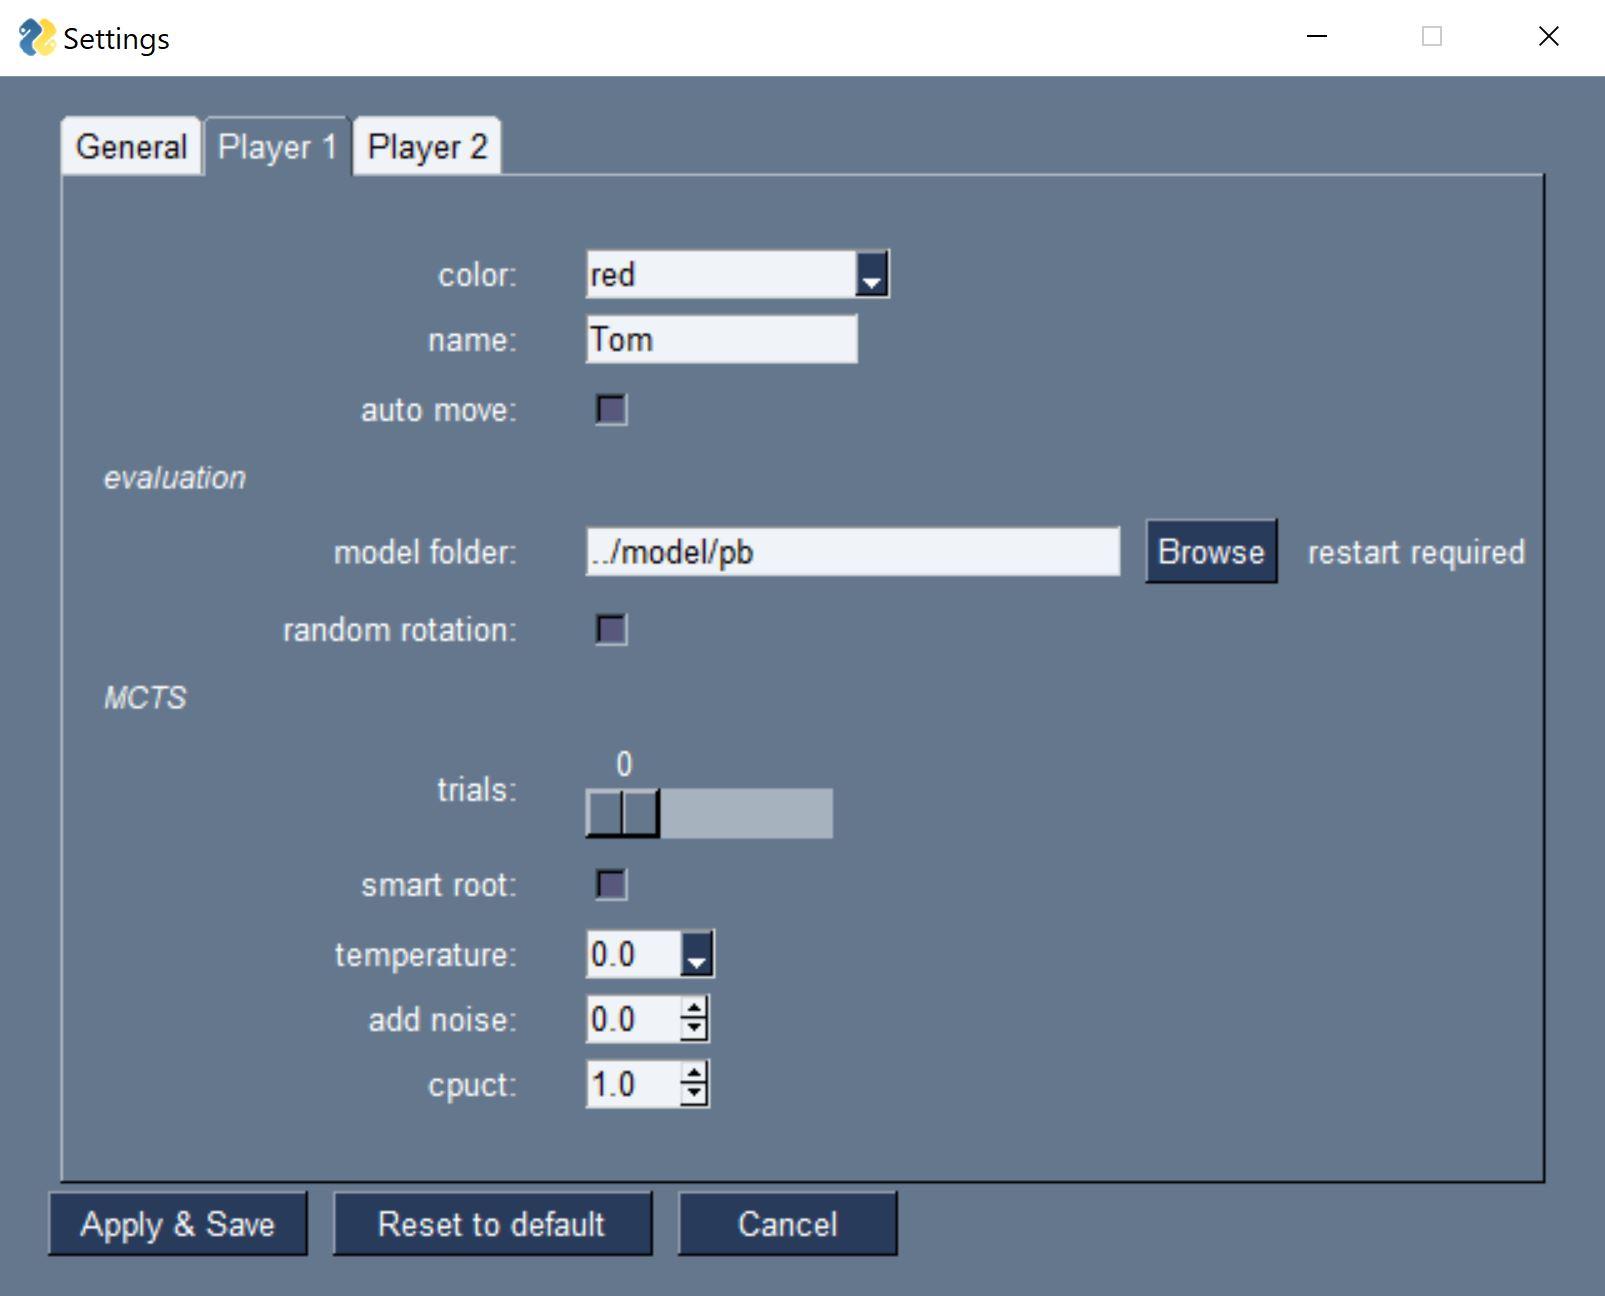
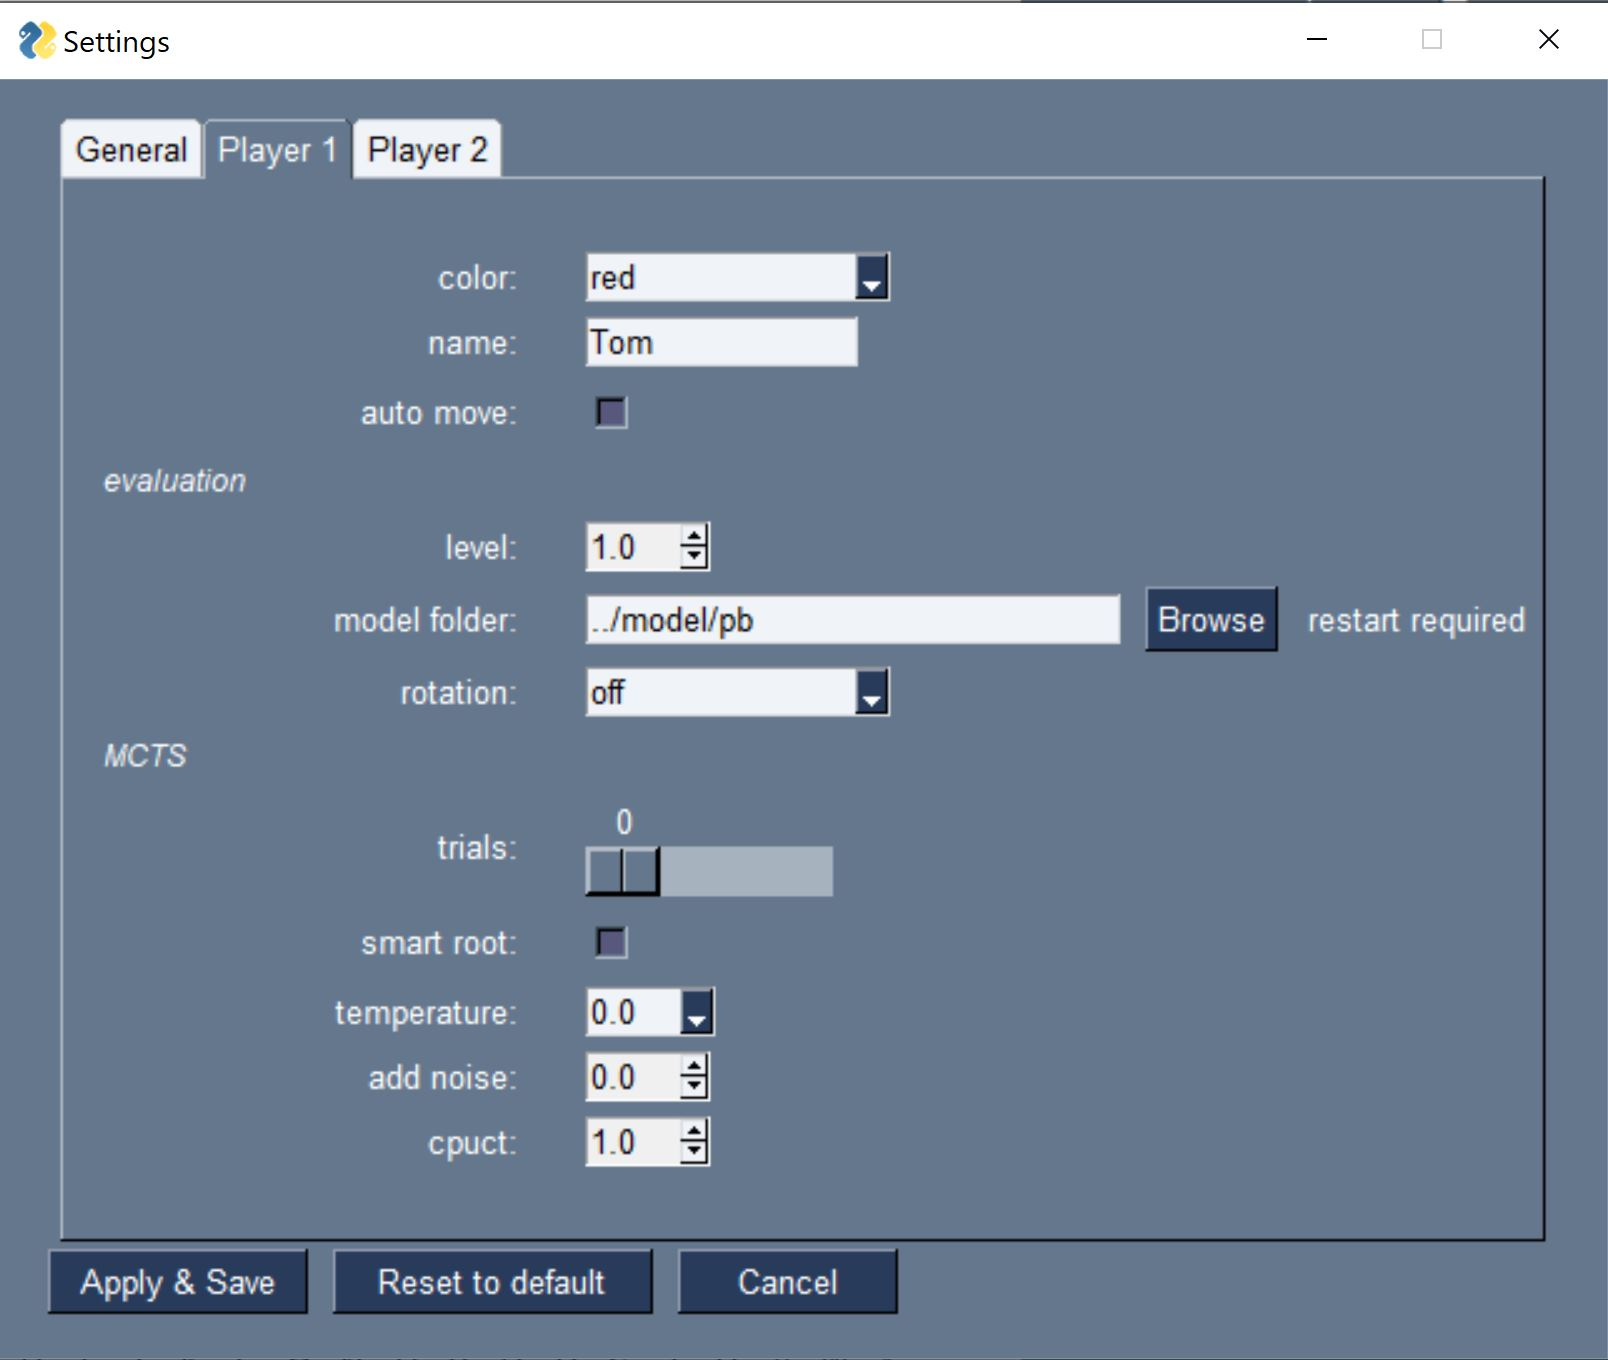
parameter 'level' to scew prob. dist. and weaken bots

diff --git a/src/tbui.py b/src/tbui.py
@@ -204,14 +204,14 @@ class TwixtbotUI:
         self.get_control(ct.K_MOVES).Update(text)
 
     def calc_eval(self):
-        score, moves, prob = self.bots[self.game.turn].nm.eval_game(self.game)
+        score, moves, P, Pscew = self.bots[self.game.turn].nm.eval_game(self.game)
         # get score from white's perspective
         sc = round((2 * self.game.turn - 1) * score, 3)
-        self.next_move = {"score": sc, "moves": moves, "P": prob}
+        self.next_move = {"score": sc, "moves": moves, "P": P, "Pscew": Pscew}
         # Add sc to dict of historical scores
         self.moves_score[len(self.game.history)] = sc
 
-        return sc, moves, prob
+        return sc, moves, P, Pscew
 
     def clear_evals(self):
         self.get_control(ct.K_EVAL_NUM).Update('')
@@ -227,13 +227,13 @@ class TwixtbotUI:
             return
 
         if not self.game_over(False):
-            sc, moves, prob = self.calc_eval()
+            sc, moves, P, _ = self.calc_eval()
 
             self.get_control(ct.K_EVAL_NUM).Update(sc)
             self.get_control(ct.K_EVAL_BAR).Update(1000 * sc + 1000)
 
             # update chart (use top 3 values only)
-            values = {"moves": moves[:3], "Y":  [int(round(p * 1000)) for p in prob[:3]]}
+            values = {"moves": moves[:3], "Y":  [int(round(p * 1000)) for p in P[:3]]}
             self.eval_moves_plot.update(values, 1000)
 
         # clean visits
@@ -346,6 +346,8 @@ class TwixtbotUI:
                     self.stgs.get(ct.K_TRIALS[p]))
                 self.bots[t].temperature = float(
                     self.stgs.get(ct.K_TEMPERATURE[p]))
+                self.bots[t].level = float(
+                    self.stgs.get(ct.K_LEVEL[p]))
                 self.bots[t].rotation = self.stgs.get(
                     ct.K_ROTATION[p])
                 self.bots[t].add_noise = float(
@@ -363,6 +365,7 @@ class TwixtbotUI:
             "allow_swap": self.stgs.get(ct.K_ALLOW_SWAP[1]),
             "model": self.stgs.get(ct.K_MODEL_FOLDER[player]),
             "trials": self.stgs.get(ct.K_TRIALS[player]),
+            "level": self.stgs.get(ct.K_LEVEL[player]),
             "smart_root": self.stgs.get(ct.K_SMART_ROOT[player]),
             "temperature": self.stgs.get(ct.K_TEMPERATURE[player]),
             "rotation": self.stgs.get(ct.K_ROTATION[player]),
@@ -375,21 +378,18 @@ class TwixtbotUI:
         import backend.nnmplayer as nnmplayer
         self.bots[2 - player] = nnmplayer.Player(**args)
 
-    def _apply_level(self, response):
+    """
+            if idx > 0:
+                print("apply_level: ", response["moves"])
+                print("             ", response["P"])
+                print("q, p0New, d  ", q, p0new, d)
+                print("             ", prob)
+                print("             ", idx, moves[idx])
+    """
 
-        moves = response["moves"]
-        level = self.get_current(ct.K_LEVEL)
-        if len(moves) == 1 or level == ct.LEV_GREEDY:
-            # return best move
-            idx = 0
-        else:
-            # stochastic
-            idx = random.choices(np.arange(0, len(moves)), response["P"])[0]
-
-        m = moves[idx]
-        print("apply_level: ", response["moves"], response["P"], idx, m, response["P"][idx])
-
-        return m
+    def _stochastic_choice(self, response):
+        idx = random.choices(np.arange(0, len(response["Pscew"])), response["Pscew"])[0]
+        return response["moves"][idx]
 
     def call_bot(self):
         # mcts, or first/second move (we are in a thread)
@@ -400,7 +400,7 @@ class TwixtbotUI:
             # bot has not been cancelled (but is finished or accepted)
             # so execute move.
             # execute move must be inside thread!
-            move = self._apply_level(response)
+            move = self._stochastic_choice(response)
             self.execute_move(move)
         else:
             # reset history_at_root resets tree and visit counts
@@ -520,6 +520,7 @@ class TwixtbotUI:
                 len(values["moves"]) > 1):
             # limit to top 3 moves
             values["moves"] = values["moves"][:3]
+            values["Y"] = values["Y"][:3]
             self.visit_plot.update(values, max(1, values["max"]))
 
     def handle_accept_and_cancel(self, event):
@@ -597,21 +598,22 @@ class TwixtbotUI:
                 if len(self.game.history) >= 2:
                     # we already have the next moves
                     # from eval update => execute it
-                    move = self._apply_level(self.next_move)
+                    move = self._stochastic_choice(self.next_move)
                     self.execute_move(move)
                 else:
                     # first or second move (special policy)
                     # => sync call + execute
                     response = self.bots[self.game.turn].pick_move(
                         self.game, self.window, self.bot_event)
-                    move = self._apply_level(response)
+                    move = self._stochastic_choice(response)
                     self.execute_move(move)
                 # window update
                 self.update_after_move(False)
                 # send pseudo-event to keep loop going
                 # necessary in case of trials==0 and
                 # auto_move=True for both bots
-                self.window.write_event_value('PSEUDO', None)
+                if not self.game_over():
+                    self.window.write_event_value('PSEUDO', None)
             else:
                 # mcts => async bot call in thread
                 self.launch_call_bot()

diff --git a/src/backend/nnmcts.py b/src/backend/nnmcts.py
@@ -29,6 +29,7 @@ class NeuralMCTS:
         """ sap = score and policy function, takes a game as input """
         self.cpuct = kwargs.pop("cpuct", 1.0)
         self.add_noise = kwargs.pop("add_noise", 0.25)
+        self.level = kwargs.pop("level", None)
         self.smart_root = kwargs.pop("smart_root", 0)
         self.smart_init = kwargs.pop("smart_init", 0)
         self.board = kwargs.pop("board", None)
@@ -151,18 +152,12 @@ class NeuralMCTS:
 
         game.play(move)
 
-        # cif self.visualize_mcts:
-        #    self.board.create_move_objects(len(game.history)-1, True)
-
         if subnode:
             subscore = -self.visit_node(game, subnode)
         else:
             subnode = self.expand_leaf(game)
             node.subnodes[index] = subnode
             subscore = -subnode.score
-
-        # if self.visualize_mcts:
-        #    self.board.undo_last_move_objects()
 
         game.undo()
 
@@ -215,7 +210,21 @@ class NeuralMCTS:
         indices = numpy.argsort(self.root.P[self.root.LMnz])
         pts = [str(naf.policy_index_point(game, self.root.LMnz[0][index]))
                for index in indices[-3:]]
+
         return ":" + ",".join(pts)
+
+    def _scew(self, P):
+        prob = P
+        q = self.level
+        # stochastic
+        avg = 1.0 / len(prob)
+        p0 = prob[0]
+        # if q == 0.0 => set new q0 to avg
+        # if q == 0.5 => set new q0 to q0 (no change)
+        # if q == 1.0 => set new q0 to 1 (greedy)
+        prob = [(-4*p+2*avg)*q*q + (4*p-3*avg)*q + avg for p in prob[1:]]
+        prob[0] = (-4*p0+2*avg+2)*q*q + (4*p0-3*avg-1)*q + avg
+        return prob
 
     def eval_game(self, game, maxbest=twixt.MAXBEST):
 
@@ -225,8 +234,11 @@ class NeuralMCTS:
         top_ixs = numpy.argsort(self.root.P)[-maxbest:]
         moves = [naf.policy_index_point(game, ix) for ix in top_ixs][::-1]
         P = [self.root.P[ix] for ix in top_ixs][::-1]
+        # scew P
+        Pscew = self._scew(P)
+
         self.logger.debug("moves: %s, idx: %s", moves, top_ixs)
-        return self.root.score, moves, P
+        return self.root.score, moves, P, Pscew
 
     def proven_result(self, game):
         if self.root.winning_move:
@@ -241,7 +253,7 @@ class NeuralMCTS:
 
     def create_response(self, game, status,
                         num_trials=0, current_trials=0,
-                        proven=False, moves=None, P=None):
+                        proven=False, moves=None, P=None, Pscew=None):
 
         resp = {
             "status": status,
@@ -255,13 +267,18 @@ class NeuralMCTS:
         else:
             resp["P"] = [1.0]
 
+        if Pscew is not None:
+            resp["Pscew"] = Pscew.tolist() if type(Pscew) != list else P
+        else:
+            resp["Pscew"] = [1.0]
+
         if not moves:
             indices = numpy.argsort(self.root.N)[::-1][:twixt.MAXBEST]
             resp["moves"] = [naf.policy_index_point(
                 game.turn, i) for i in indices]
             resp["Y"] = [int(n) for n in self.root.N[indices].tolist()]
-            resp["P"] = [int(round(p * 1000))
-                         for p in self.root.P[indices].tolist()]
+            resp["P"] = [p for p in self.root.P[indices].tolist()]
+            resp["Pscew"] = self._scew(resp["P"])
             # resp["Q"] = self.root.Q[indices].tolist()
         else:
             resp["moves"] = moves

diff --git a/src/layout.py b/src/layout.py
@@ -279,7 +279,7 @@ def st_row_resign_threshold():
     return [st_label(ct.K_RESIGN_THRESHOLD[0]),
             sg.Spin(values=[float((x + 70.0) / 100.0) for x in range(31)],
                     initial_value=ct.K_RESIGN_THRESHOLD[3],
-                    key=ct.K_RESIGN_THRESHOLD[1], size=(5, 0))]
+                    key=ct.K_RESIGN_THRESHOLD[1], size=(5, 0), readonly=True)]
 
 
 def st_row_color(player):
@@ -327,14 +327,14 @@ def st_row_add_noise(player):
     return [st_label(ct.K_ADD_NOISE[0]),
             sg.Spin(values=[float(x / 100.0) for x in range(101)],
                     initial_value=ct.K_ADD_NOISE[player + 2],
-                    key=ct.K_ADD_NOISE[player], size=(5, 0))]
+                    key=ct.K_ADD_NOISE[player], size=(5, 0), readonly=True)]
 
 
 def st_row_cpuct(player):
     return [st_label(ct.K_CPUCT[0]),
             sg.Spin(values=[float(x / 100.0) for x in range(101)],
                     initial_value=ct.K_CPUCT[player + 2],
-                    key=ct.K_CPUCT[player], size=(5, 0))]
+                    key=ct.K_CPUCT[player], size=(5, 0), readonly=True)]
 
 
 def st_row_rotation(player):
@@ -345,8 +345,9 @@ def st_row_rotation(player):
 
 def st_row_level(player):
     return [st_label(ct.K_LEVEL[0]),
-            sg.Combo(ct.LEV_LIST, ct.K_LEVEL[player + 2], size=(25, 1),
-                     key=ct.K_LEVEL[player], readonly=True)]
+            sg.Spin(values=[float(x / 100.0) for x in range(101)],
+                    initial_value=ct.K_LEVEL[player + 2],
+                    key=ct.K_LEVEL[player], size=(5, 0), readonly=True)]
 
 def st_row_smart_root(player):
     return [st_label(ct.K_SMART_ROOT[0]),

diff --git a/src/backend/nnmplayer.py b/src/backend/nnmplayer.py
@@ -22,7 +22,8 @@ class Player:
         self.smart_root = int(kwargs.get('smart_root', 0))
         self.allow_swap = int(kwargs.get('allow_swap', 1))
         self.add_noise = float(kwargs.get('add_noise', 0))
-        self.cpuct = float(kwargs.get('cpuct', 1))
+        self.cpuct = float(kwargs.get('cpuct', 1.0))
+        self.level = float(kwargs.get('level', 1.0))
         self.board = kwargs.get('board', None)
         self.evaluator = kwargs.get('evaluator', None)
 
@@ -99,6 +100,7 @@ class Player:
             smart_root=self.smart_root,
             cpuct=self.cpuct,
             board=self.board,
+            level=self.level,
             visualize_mcts=False
         )
 
@@ -118,10 +120,10 @@ class Player:
 
         if self.num_trials == 0:
             # don't use MCTS but just evaluate and return best move
-            _, moves, P = self.nm.eval_game(game)
+            _, moves, P, Pscew = self.nm.eval_game(game)
             return self.nm.create_response(game, "done", 0,
                                            0, moves=moves,
-                                           P=P)
+                                           P=P, Pscew=Pscew)
 
         N = self.nm.mcts(game, self.num_trials, window, event)
 

diff --git a/src/constants.py b/src/constants.py
@@ -73,16 +73,7 @@ ROT_FLIP_BOTH = "flip both"
 ROTATION_LIST = [ROT_OFF, ROT_RAND, ROT_AVG, ROT_BEST_EVALUATION,
                  ROT_BEST_P_VALUE, ROT_FLIP_HOR, ROT_FLIP_VERT, ROT_FLIP_BOTH]
 
-LEV_GREEDY = "greedy"
-LEV_STOCH_100 = "stochastic 1.0"
-LEV_STOCH_90 = "stochastic 0.9"
-LEV_STOCH_80 = "stochastic 0.8"
-LEV_STOCH_60 = "stochastic 0.6"
-LEV_STOCH_30 = "stochastic 0.3"
-LEV_RANDOM = "random uniform"
 
-LEV_LIST = [LEV_GREEDY, LEV_STOCH_100, LEV_STOCH_90, LEV_STOCH_80, LEV_STOCH_60, LEV_STOCH_30, LEV_RANDOM]
-LEV_SPOILER = [None, 1.0, 0.9, 0.8, 0.6, 0.3, 0.0]
 # logging
 LOG_LEVEL_LIST = list(map(logging.getLevelName, range(10, 60, 10)))
 
@@ -100,7 +91,7 @@ K_SMART_ROOT = ['smart root', 'P1_SMART_ROOT',
 K_TEMPERATURE = ['temperature', 'P1_TEMPERATURE', 'P2_TEMPERATURE', 0.0, 0.0]
 K_CPUCT = ['cpuct', 'P1_CPUCT', 'P2_CPUCT', 1.0, 1.0]
 K_ROTATION = ['rotation', 'P1_ROTATION', 'P2_ROTATION', ROT_OFF, ROT_OFF]
-K_LEVEL = ['level', 'P1_LEVEL', 'P2_LEVEL', LEV_GREEDY, LEV_GREEDY]
+K_LEVEL = ['level', 'P1_LEVEL', 'P2_LEVEL', 1.0, 1.0]
 K_ADD_NOISE = ['add noise', 'P1_ADD_NOISE', 'P2_ADD_NOISE', 0.0, 0.0]
 
 # keys - general

diff --git a/src/backend/twixt.py b/src/backend/twixt.py
@@ -9,7 +9,7 @@ import constants as ct
 
 SWAP = "swap"
 RESIGN = "resign"
-MAXBEST = 10
+MAXBEST = 24**24
 
 
 class Point(namedtuple('Point', 'x y')):

diff --git a/README.md b/README.md
@@ -86,6 +86,14 @@ The policy head of the network evaluates each legal move. These p-values in rang
 
 ![Heatmap](img/Heatmap.JPG)
 
+### Policy
+
+By default the bots pick the best move returned by the network, i.e. the move with the highest p-value. This greedy
+policy can be changed to a stochastic policy by decreasing the config parameter "level" in the settings dialog. The
+lower the level, the weaker the bot, i.e the more often a weaker move is chosen.
+<br>Note that the "level" parameter is 
+only applied when not using MCTS.
+
 ## MCTS
 
 The network is strong enough to win against most human players. If you want the bot to play even stronger you can switch on Monte-Carlo-Tree-Search. To do so choose a number of *trials* > 0. The more trials, the bigger the tree, i.e. the more boards will be evaluated. twixtbot-ui starts MCTS in a separate thread. Progress info is updated every 20 trials. The top three moves with the most visits are listed.<br><br> 
@@ -129,6 +137,15 @@ Parameters *auto move* and *trials* can also be changed in the control panel of 
   - *average*: uses the average evaluation and average p-values
   - *best evaluation*: choose board with the biggest evaluation and its p-values
   - *best p-value*: choose board with the biggest p-value and its evaluation
+- *level*: this parameter controls how "greedily" the best move is picked. The lower the level, the weaker the bot. 
+  Examples:
+  - 1.0 greedy: the move with the best p-value is always chosen (default)
+  - 0.95 greedy: the move with the best p-value is *almost* always chosen
+  - ...
+  - 0.5 stochastic choice using the p-values, i.e if a move has a p-value of 0.3 it will be chosen with a 
+    probability of 0.3
+  - 0.0 random uniform: all legal moves have the same probalility to be chosen.
+    
 - *model folder*: no reason to change this unless you have a second network (default: `../model/pb`)
 - *trials*: number of MCTS iterations. Set it to 0 to switch off MCTS (default: 0)
 - *smart root*: if true, the leading move is not visited if it is more than one visit ahead. Of the remaining moves the one with the best UCB is visited instead (default: false) 
